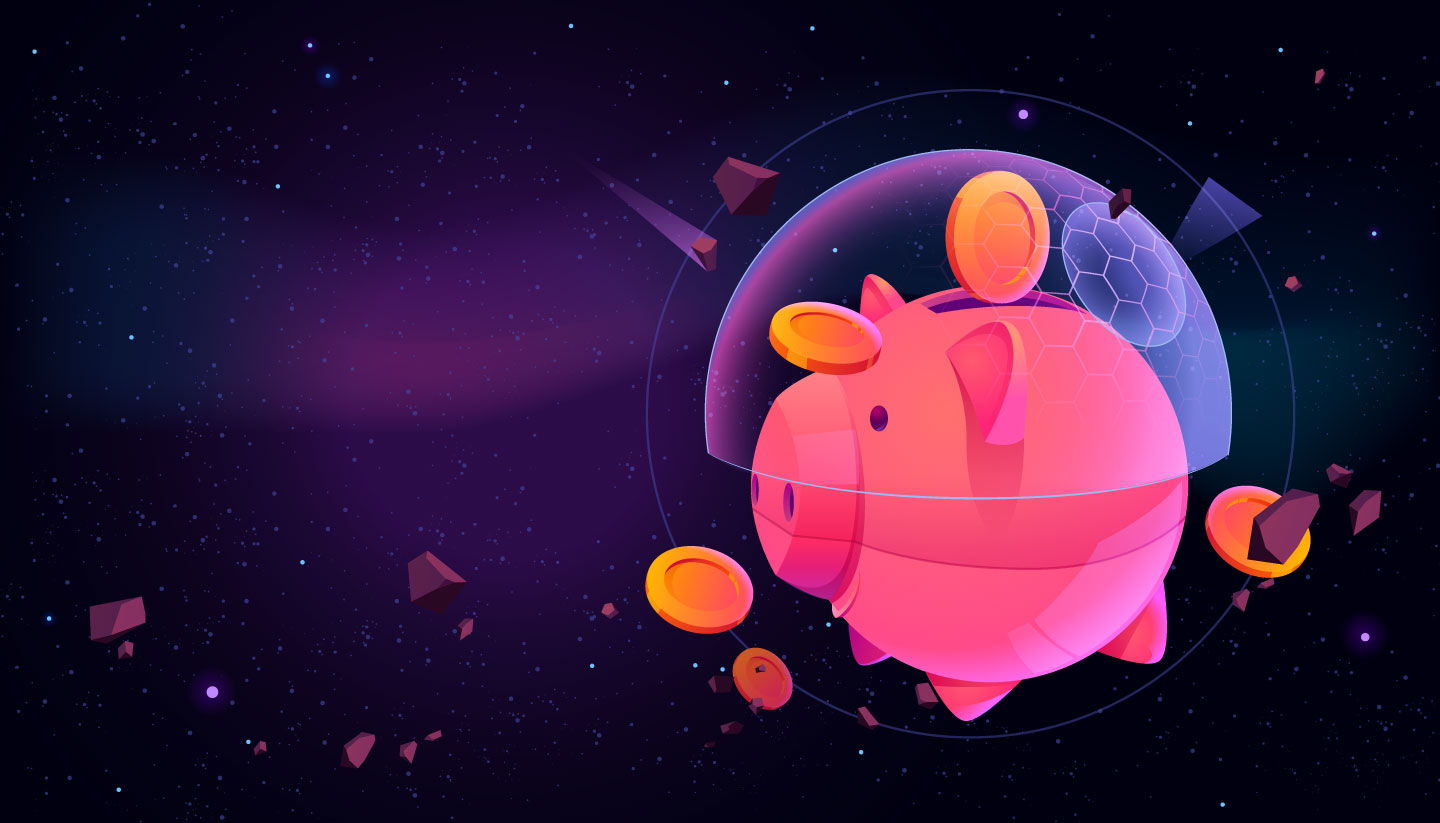
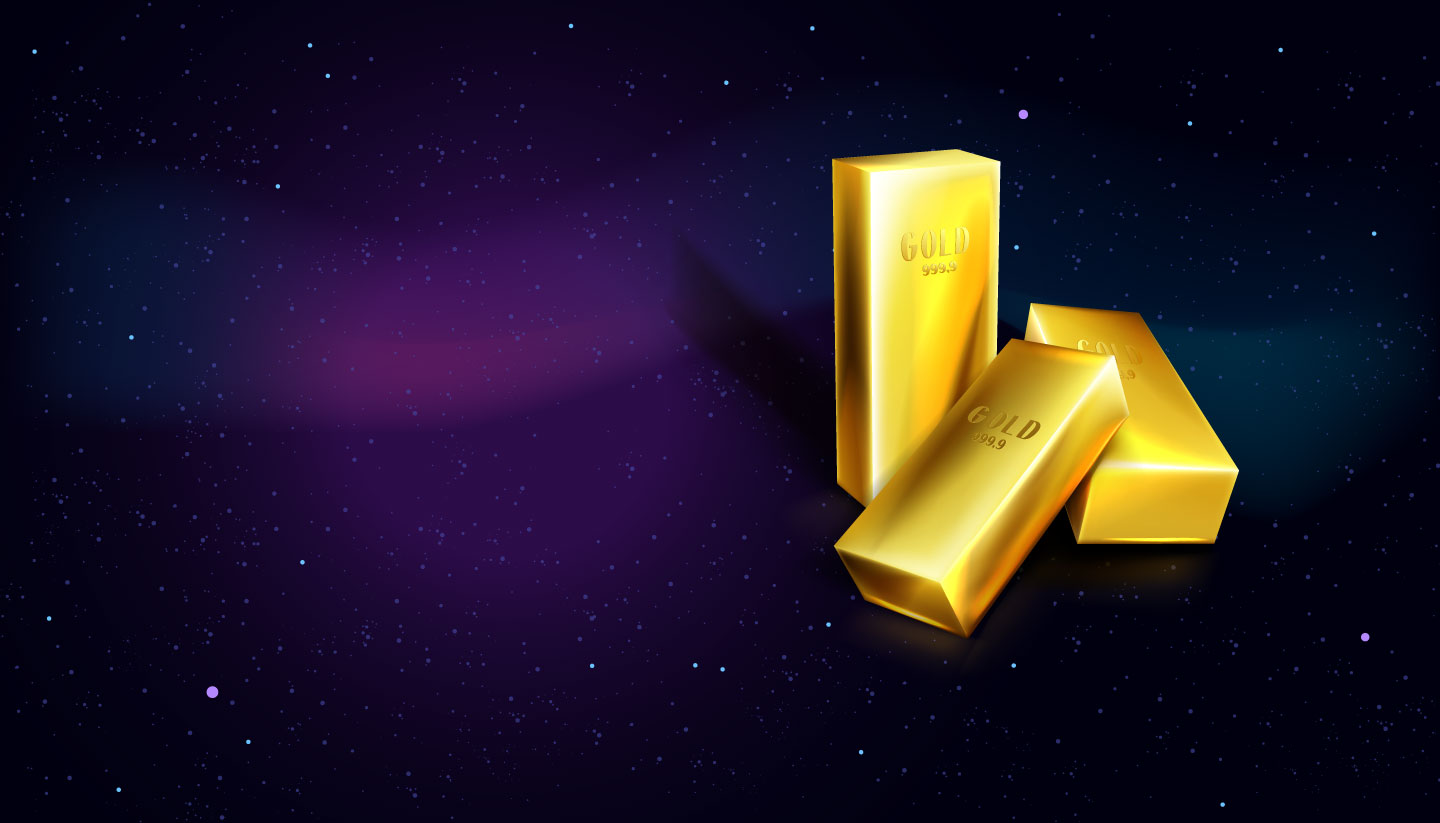
CAMBIO DE LA IMAGEN DE INICIO

diff --git a/index.html b/index.html
@@ -100,7 +100,7 @@
                                     <span class="integration-text">Discover a new ways to enjoy your World!</span>
                                 </div>
                             </div>
-                            <h1 class="wow fadeInUp" data-wow-delay="0.2s">Mining Commodities INC</h1>
+                            <h1 class="wow fadeInUp" data-wow-delay="0.2s">THE BEST INVESTMENT YOU CAN MAKE IS IN GOLD</h1>
                             <p class="wow fadeInUp" data-wow-delay="0.3s">Participate in a participation scheme in leveraged commodities in the best deposits on the planet.
                                 <!-- <br>
                             M.Sc. Jhon McGregor. CEO Mining Commodities Inc. -->
@@ -139,7 +139,7 @@
             <div class="dream-dots justify-content-center wow fadeInUp" data-wow-delay="0.2s" style="visibility: visible; animation-delay: 0.2s; animation-name: fadeInUp;">
                 <span></span><span></span><span></span><span></span><span></span><span></span><span></span>
             </div>
-            <h2 class="wow fadeInUp" data-wow-delay="0.3s" style="visibility: visible; animation-delay: 0.3s; animation-name: fadeInUp;"  id="platform">Platform</h2>
+            <h2 class="wow fadeInUp" data-wow-delay="0.3s" style="visibility: visible; animation-delay: 0.3s; animation-name: fadeInUp;"  id="platform">GOLD MARKET</h2>
             <p class="wow fadeInUp" data-wow-delay="0.4s" style="visibility: visible; animation-delay: 0.4s; animation-name: fadeInUp;">MICOM Coin is a fast and secure blockchain for decentralized applications. Our production mainnet supports 4 shards of 1000 nodes, producing blocks in 5 seconds with finality.</p>
         </div>
         <div class="container">
@@ -415,9 +415,10 @@ Thanks to blockchain, we can have the best of both worlds: digital raw material 
     <!-- ##### Our Services Area End ##### -->
 
     <!-- ##### Our roadmap Area start ##### -->
-    <section class="roadmap section-padding-100" style="background: url('img/bg-img/bg-roadmap.png') no-repeat center center;background-size: cover;" id="roadmap">
+
+    <!-- <section class="roadmap section-padding-100" style="background: url('img/bg-img/bg-roadmap.png') no-repeat center center;background-size: cover;" id="roadmap">
         <div class="section-heading text-center">
-            <!-- Dream Dots -->
+            
             <div class="dream-dots justify-content-center wow fadeInUp" data-wow-delay="0.2s">
                 <span></span><span></span><span></span><span></span><span></span><span></span><span></span>
             </div>
@@ -509,7 +510,9 @@ Thanks to blockchain, we can have the best of both worlds: digital raw material 
                 </div>
             </div>
         </div>
-    </section>
+    </section> -->
+
+
     <!-- ##### Our roadmap Area End ##### -->
     
 
@@ -739,11 +742,12 @@ Thanks to blockchain, we can have the best of both worlds: digital raw material 
     <!-- ##### FAQ & Timeline Area End ##### -->
 
     <!-- ##### token-distribution Area start ##### -->
-    <section class="token-distribution">
+
+    <!-- <section class="token-distribution">
         <div class="container">
             
             <div class="section-heading text-center">
-                <!-- Dream Dots -->
+               
                 <div class="dream-dots justify-content-center wow fadeInUp" data-wow-delay="0.2s">
                     <span></span><span></span><span></span><span></span><span></span><span></span><span></span>
                 </div>
@@ -787,7 +791,8 @@ Thanks to blockchain, we can have the best of both worlds: digital raw material 
             </div>
         </div>
         
-    </section>
+    </section> -->
+
     <!-- ##### token-distribution Area End ##### -->
 
     <!-- ##### Mission Area Start ##### -->
@@ -1138,7 +1143,7 @@ Thanks to blockchain, we can have the best of both worlds: digital raw material 
                                 <span></span><span></span><span></span><span></span><span></span><span></span><span></span>
                             </div>
                             <h2 class="wow fadeInUp" data-wow-delay="0.3s">Contact With Us</h2>
-                            <p class="wow fadeInUp" data-wow-delay="0.4s">Lorem ipsum dolor sit amet, consectetur adipiscing elit. Sed quis accumsan nisi Ut ut felis congue nisl hendrerit commodo.</p>
+                            <p class="wow fadeInUp" data-wow-delay="0.4s">Describe your project below and we will contact you shortly. If you want to know more details about our products and services, I made an appointment with our executives through this support system.</p>
                         </div>
                     </div>
                 </div>
